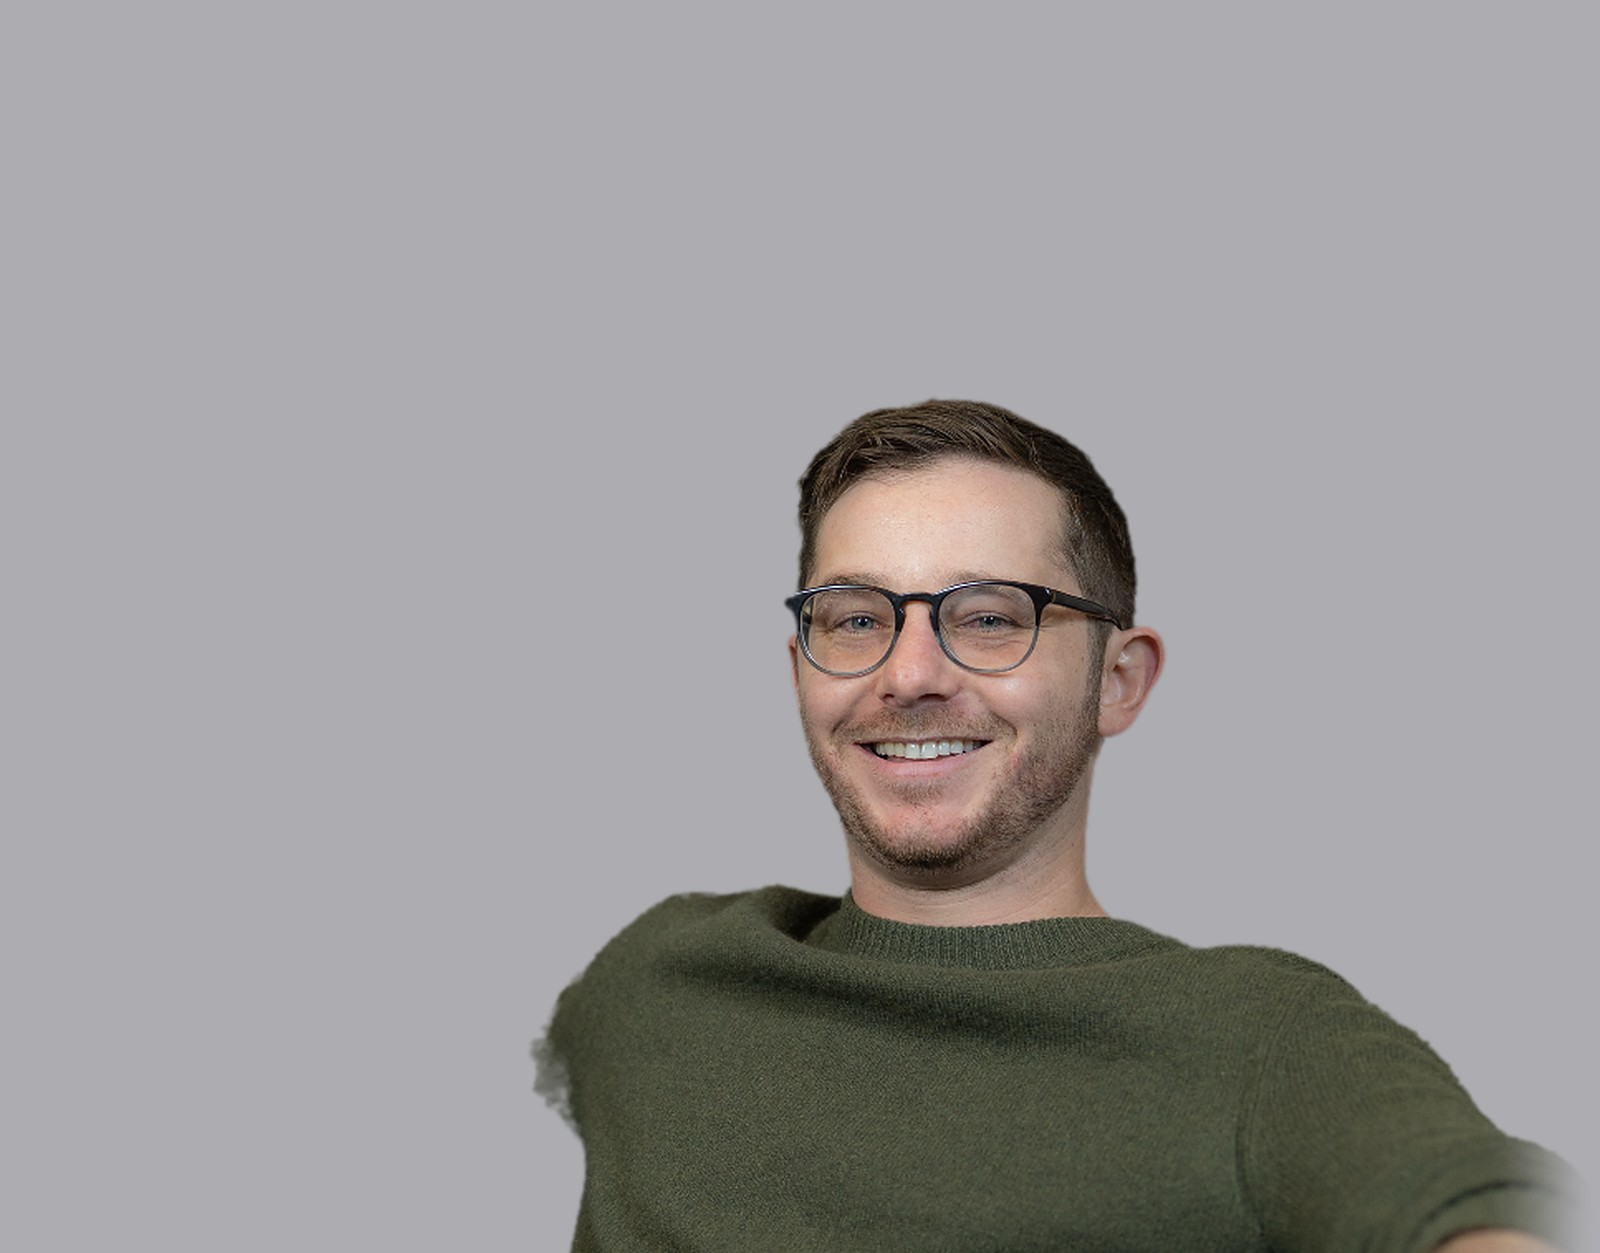
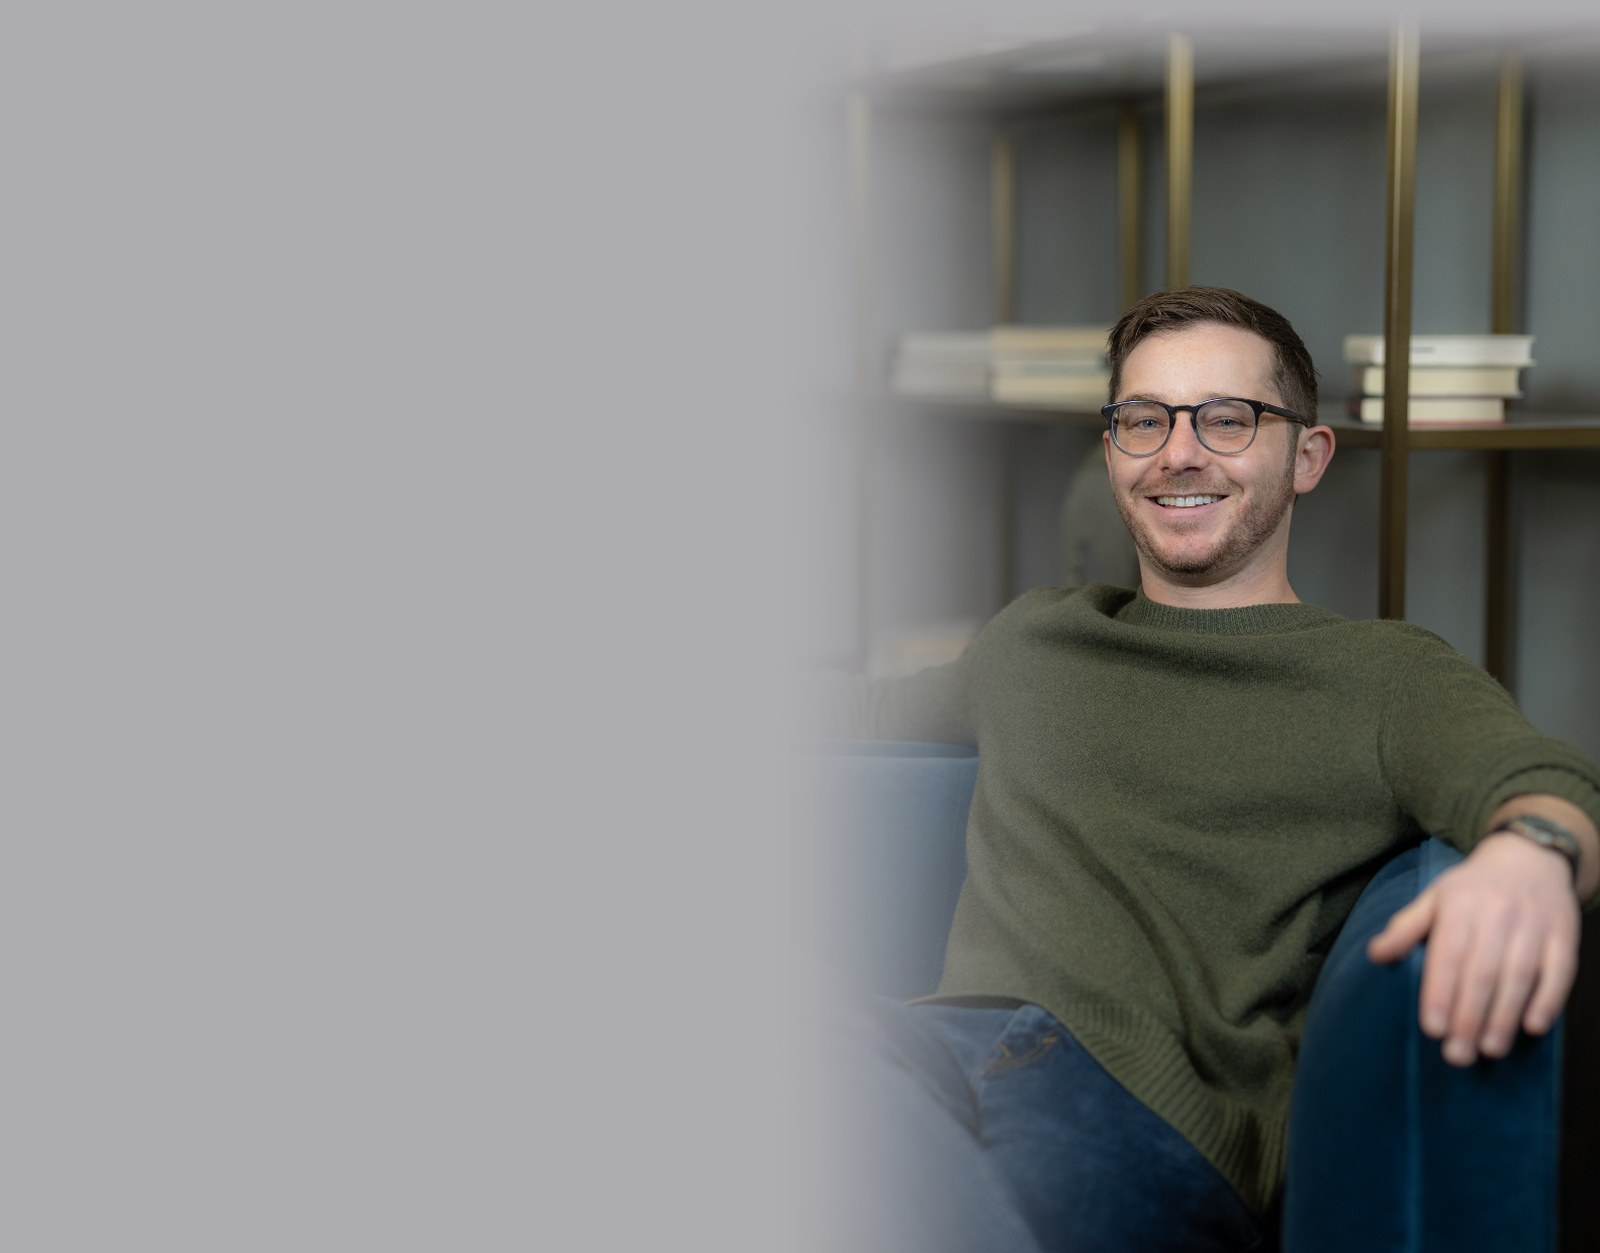
Go back to the photo with its original background
Claude-Session: https://claude.ai/code/session_015agdMSuh6WT1MRachK4sGr

diff --git a/index.html b/index.html
@@ -92,7 +92,7 @@
       </form>
     </div>
     <picture class="cover-photo">
-      <source media="(max-width: 700px)" srcset="/img/ethan-cover-m.jpg" width="800" height="659">
+      <source media="(max-width: 700px)" srcset="/img/ethan-cover-m.jpg" width="800" height="1117">
       <img src="/img/ethan-cover.jpg" srcset="/img/ethan-cover-1000.jpg 1000w, /img/ethan-cover.jpg 1600w" sizes="(min-width: 1240px) 900px, 100vw" width="1600" height="1253" alt="Portrait of Ethan Bidna" fetchpriority="high">
     </picture>
   </section>
